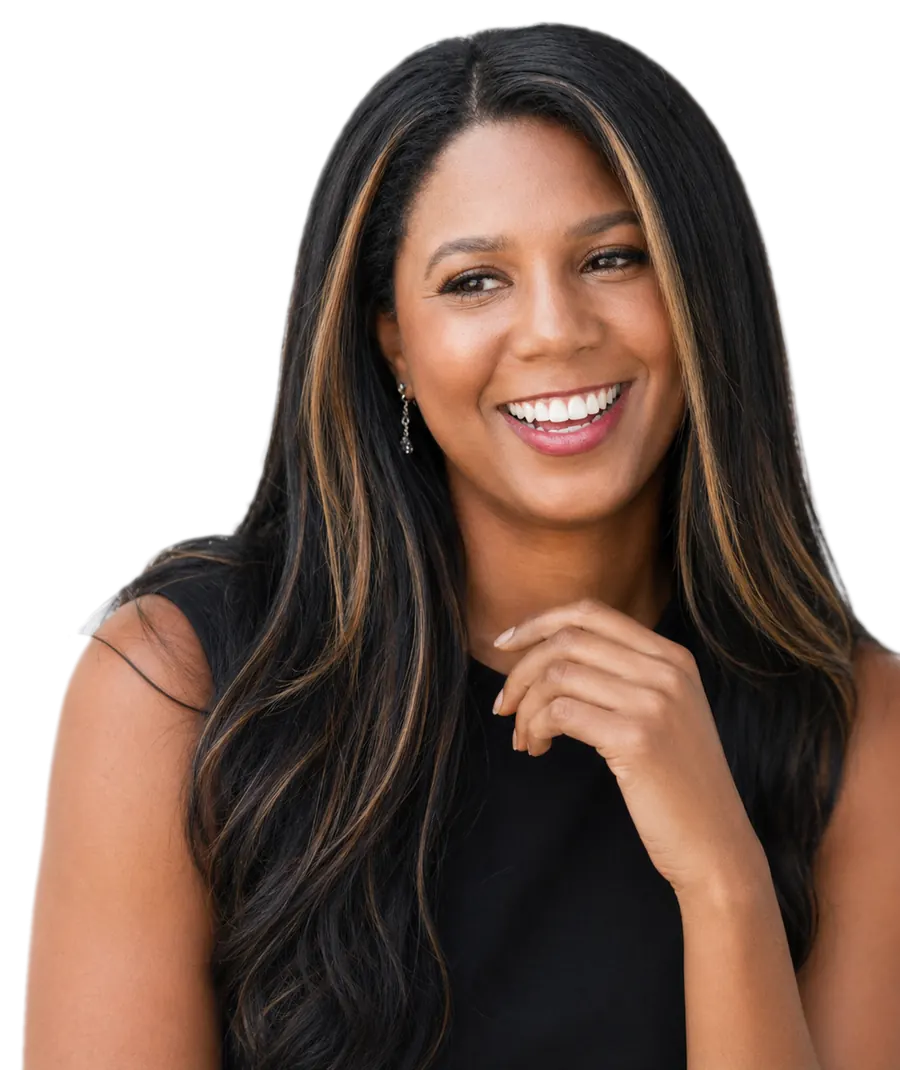
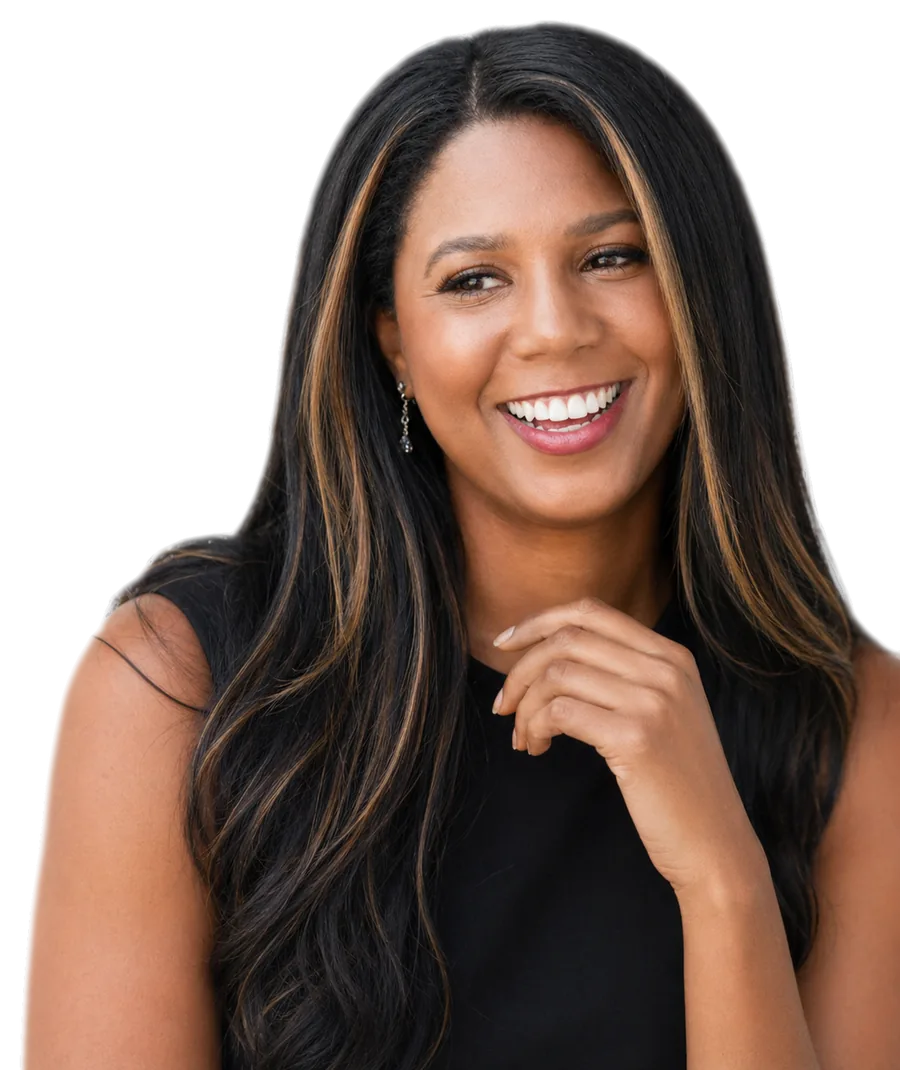
Animate contact portrait and form

diff --git a/contact/index.html b/contact/index.html
@@ -35,11 +35,52 @@
   @keyframes loadLine {
     to { transform: scaleX(1); }
   }
+
+  .contact-title-portrait {
+    animation: portraitDriftBlur 2.9s .18s cubic-bezier(.16,1,.3,1) forwards;
+  }
+
+  .contact-form-card {
+    opacity: 0;
+    transform: translateY(42px);
+    animation: contactFormRise .82s 2.45s cubic-bezier(.16,1,.3,1) forwards;
+  }
+
+  @keyframes portraitDriftBlur {
+    0% {
+      opacity: 0;
+      transform: translateX(88px) scale(1.035);
+      filter: grayscale(34%) saturate(0.68) contrast(0.94) blur(10px);
+    }
+    32% {
+      opacity: 0.22;
+      transform: translateX(12px) scale(1);
+      filter: grayscale(28%) saturate(0.72) contrast(0.96) blur(0);
+    }
+    64% {
+      opacity: 0.2;
+      transform: translateX(0) scale(1);
+      filter: grayscale(28%) saturate(0.72) contrast(0.96) blur(0);
+    }
+    100% {
+      opacity: 0;
+      transform: translateX(-18px) scale(0.985);
+      filter: grayscale(38%) saturate(0.54) contrast(0.9) blur(18px);
+    }
+  }
+
+  @keyframes contactFormRise {
+    to {
+      opacity: 1;
+      transform: translateY(0);
+    }
+  }
 }
 /* Ensure visible when motion reduced */
 @media (prefers-reduced-motion: reduce) {
   .load-fade { opacity: 1; transform: none; }
   .load-line { transform: none; }
+  .contact-title-portrait { display: none; }
   .contact-form-card,
   .contact-wireframe {
     transform: none;
@@ -127,17 +168,19 @@
   right: -92px;
   width: min(430px, 38vw);
   max-width: none;
-  opacity: 0.2;
+  opacity: 0;
   filter: grayscale(28%) saturate(0.72) contrast(0.96);
   mix-blend-mode: screen;
+  transform-origin: 72% 34%;
   pointer-events: none;
   user-select: none;
+  will-change: transform, opacity, filter;
   -webkit-mask-image:
-    linear-gradient(90deg, transparent 0%, #000 18%, #000 70%, transparent 100%),
-    linear-gradient(180deg, #000 0%, #000 70%, transparent 100%);
+    linear-gradient(90deg, transparent 0%, #000 22%, #000 66%, transparent 100%),
+    linear-gradient(180deg, transparent 0%, #000 8%, #000 66%, transparent 100%);
   mask-image:
-    linear-gradient(90deg, transparent 0%, #000 18%, #000 70%, transparent 100%),
-    linear-gradient(180deg, #000 0%, #000 70%, transparent 100%);
+    linear-gradient(90deg, transparent 0%, #000 22%, #000 66%, transparent 100%),
+    linear-gradient(180deg, transparent 0%, #000 8%, #000 66%, transparent 100%);
   -webkit-mask-composite: source-in;
   mask-composite: intersect;
 }
@@ -299,15 +342,6 @@
   font-weight: 300;
   max-width: 560px;
 }
-.contact-form-card {
-  position: relative;
-  overflow: hidden;
-  padding: 34px 34px 30px;
-  border: 1px solid rgba(17,17,24,0.08);
-  background: rgba(250,250,248,0.98);
-  box-shadow: 0 24px 60px rgba(17,17,24,0.07);
-  border-radius: 6px;
-}
 .contact-form-card::before {
   content: '';
   position: absolute;
@@ -401,7 +435,6 @@
     top: -34px;
     right: -42px;
     width: min(270px, 64vw);
-    opacity: 0.14;
   }
   .contact-hero-copy { max-width: 100%; }
   .contact-hero-actions { margin-top: 22px; }
